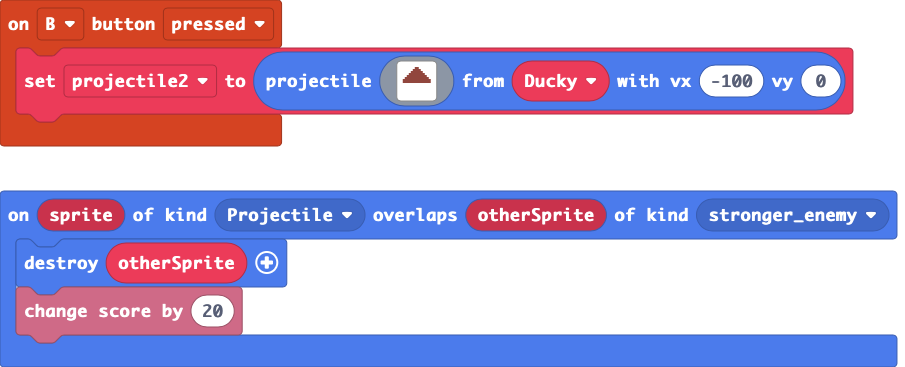
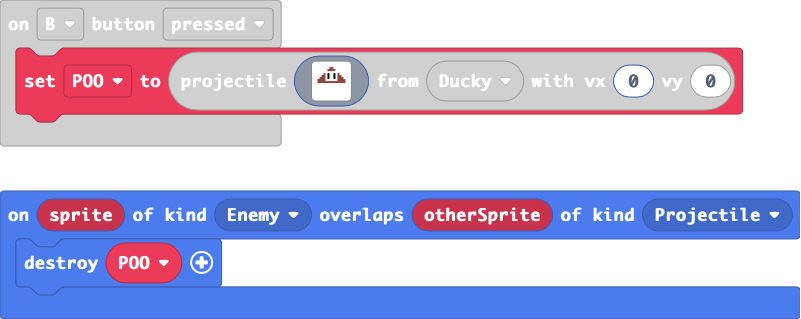
Update 1.8 (Poo is here)

diff --git a/main.ts b/main.ts
@@ -2,16 +2,16 @@ namespace SpriteKind {
     export const stronger_enemy = SpriteKind.create()
 }
 controller.B.onEvent(ControllerButtonEvent.Pressed, function () {
-    projectile2 = sprites.createProjectileFromSprite(img`
+    POO = sprites.createProjectileFromSprite(img`
         . . . . . . . . . . . . . . . . 
         . . . . . . . e e . . . . . . . 
         . . . . . . e e e e . . . . . . 
-        . . . . . e e e e e e . . . . . 
-        . . . . e e e e e e e e . . . . 
-        . . . e e e e e e e e e e . . . 
-        . . e e e e e e e e e e e e . . 
+        . . . . . 1 1 1 1 1 1 . . . . . 
+        . . . . e 1 f 1 1 f 1 e . . . . 
+        . . . e e 1 f 1 1 f 1 e e . . . 
+        . . e e e 1 f 1 1 f 1 e e e . . 
+        . e e e e 1 1 1 1 1 1 e e e e . 
         . e e e e e e e e e e e e e e . 
-        . e e e e e e e e e e e e e e . 
         . . . . . . . . . . . . . . . . 
         . . . . . . . . . . . . . . . . 
         . . . . . . . . . . . . . . . . 
@@ -19,7 +19,7 @@ controller.B.onEvent(ControllerButtonEvent.Pressed, function () {
         . . . . . . . . . . . . . . . . 
         . . . . . . . . . . . . . . . . 
         . . . . . . . . . . . . . . . . 
-        `, Ducky, -100, 0)
+        `, Ducky, 0, 0)
 })
 sprites.onOverlap(SpriteKind.Player, SpriteKind.stronger_enemy, function (sprite, otherSprite) {
     otherSprite.destroy()
@@ -45,6 +45,9 @@ controller.A.onEvent(ControllerButtonEvent.Pressed, function () {
         . . . . . . . . . . . . . . . . 
         `, Ducky, 100, 0)
 })
+sprites.onOverlap(SpriteKind.Enemy, SpriteKind.Projectile, function (sprite, otherSprite) {
+    POO.destroy()
+})
 sprites.onOverlap(SpriteKind.Projectile, SpriteKind.stronger_enemy, function (sprite, otherSprite) {
     otherSprite.destroy()
     info.changeScoreBy(20)
@@ -60,7 +63,7 @@ sprites.onOverlap(SpriteKind.Player, SpriteKind.Enemy, function (sprite, otherSp
 let Sharky: Sprite = null
 let Batty: Sprite = null
 let projectile: Sprite = null
-let projectile2: Sprite = null
+let POO: Sprite = null
 let Ducky: Sprite = null
 Ducky = sprites.create(img`
     . . . . . . . . . . . . . . . . 
